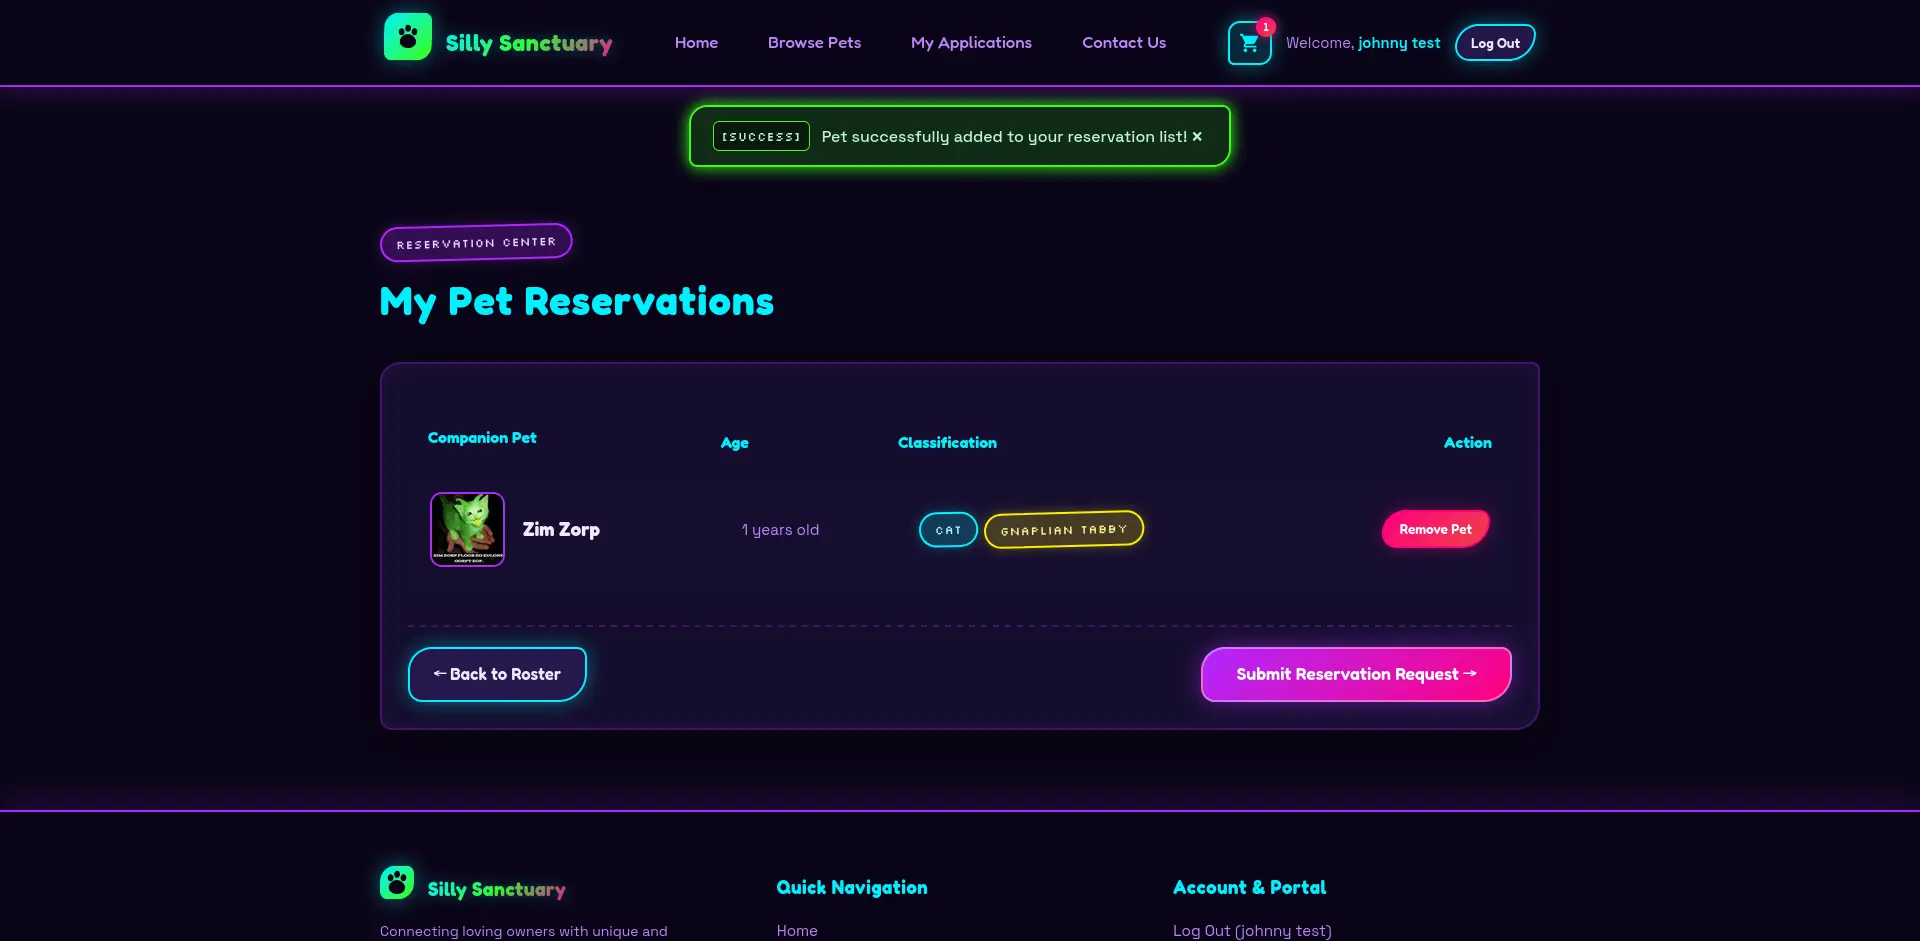
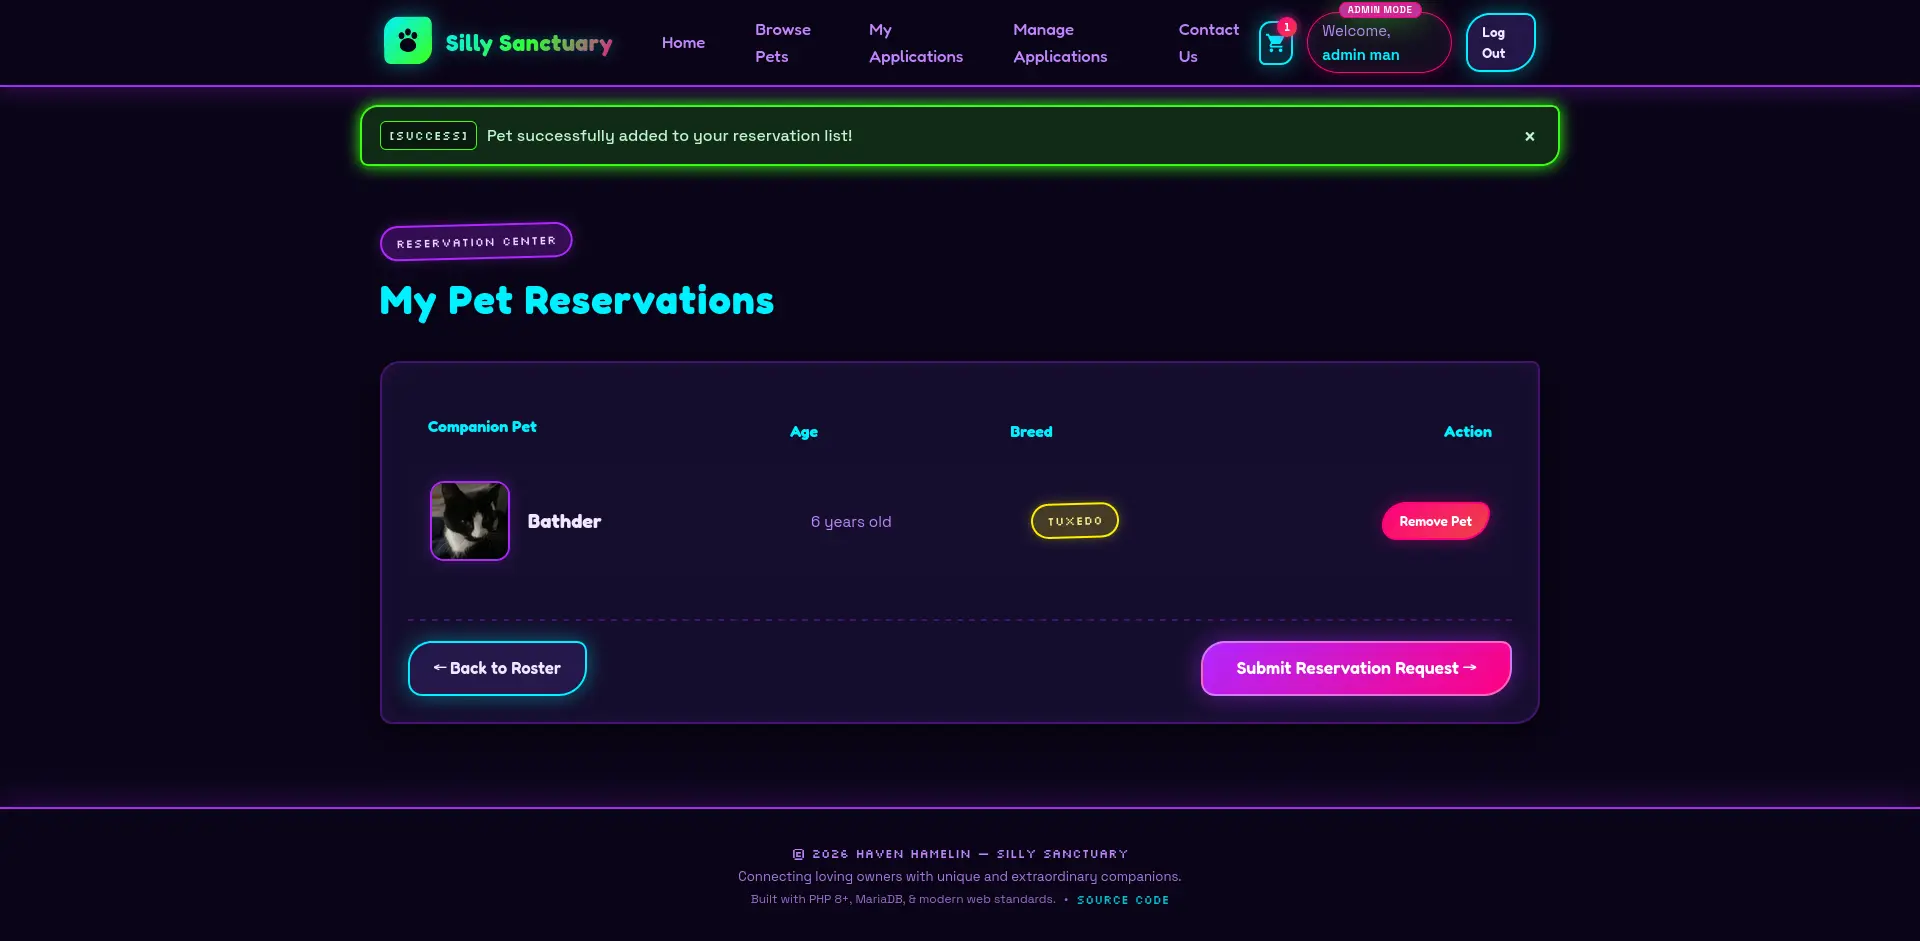
Integrate pets-5 image

diff --git a/index.html b/index.html
@@ -241,7 +241,7 @@
                 title="Silly Sanctuary"
                 src="img/projects/pets/pets-1.webp"
                 data-project="pets"
-                data-images="img/projects/pets/pets-1.webp, img/projects/pets/pets-2.webp, img/projects/pets/pets-3.webp, img/projects/pets/pets-4.webp"
+                data-images="img/projects/pets/pets-1.webp, img/projects/pets/pets-2.webp, img/projects/pets/pets-3.webp, img/projects/pets/pets-4.webp, img/projects/pets/pets-5.webp"
               />
             </picture>
             <div class="text">